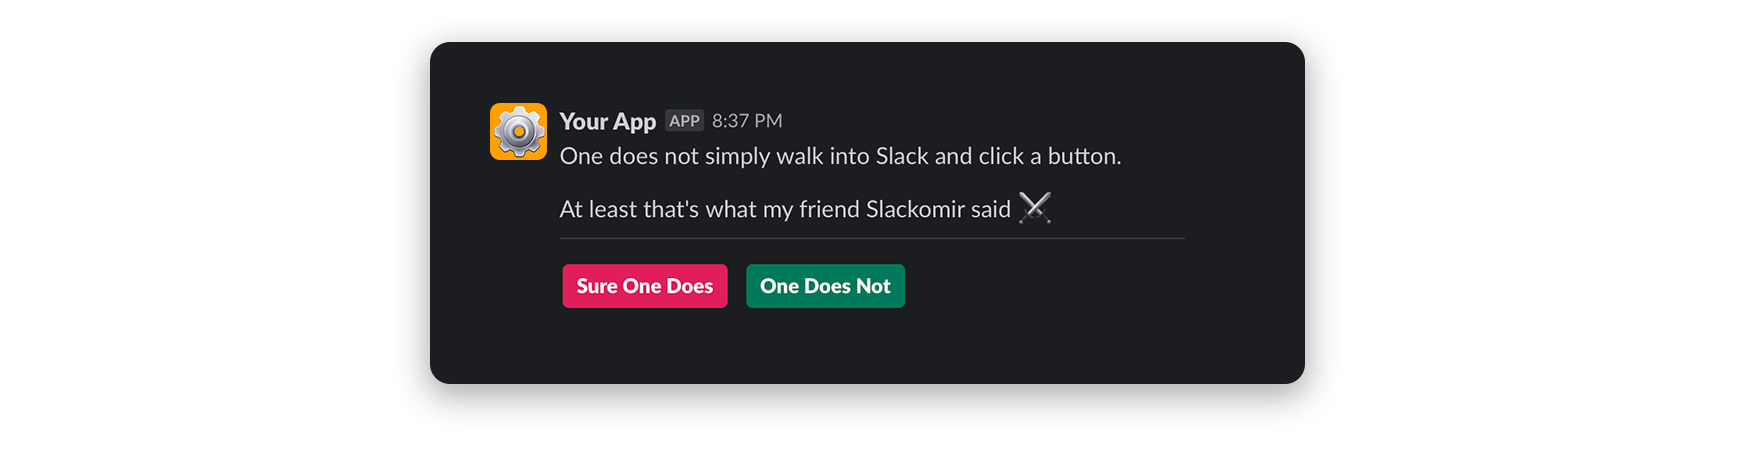
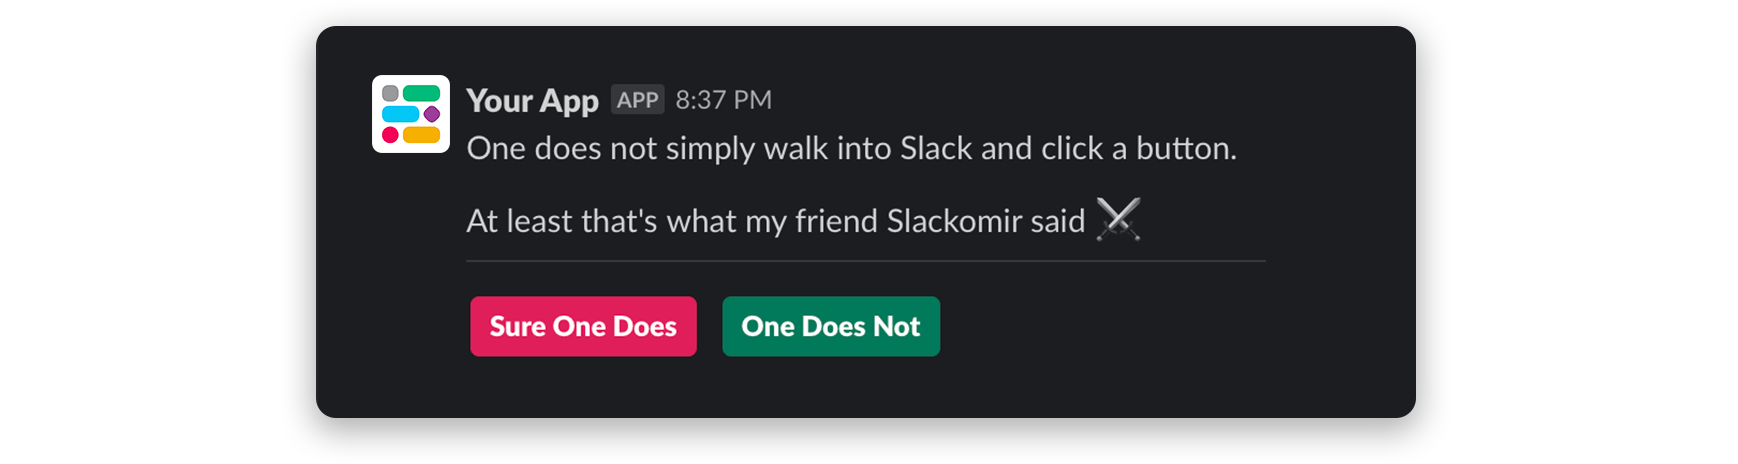
:books: Beautify README
– Add project logo.
– Beautify README.md
– Update images to reflect new logo.

Changed region(s): [[0.1554, 0.0311, 0.8389, 0.9644]]

diff --git a/README.md b/README.md
@@ -1,16 +1,40 @@
+<p align="center">
+    <img src="https://raw.githubusercontent.com/raycharius/slack-block-builder/master/resources/images/main/logo-horizontal.png" alt="Logo" width="600px">
+</p>
 
-:notebook: **Note:** Thorough, in-depth docs are in the process and will be available by **mid-June**.
+<p align="center">
+    <h3 align="center">Maintainable code for Slack interactive messages, modals, and home tabs.</h3>
+</p>
 
-# Block Builder
+<p align="center">
+    Lightweight, zero-dependency JavasScript library for <strong>Slack Block Kit UI</strong>.
+    <br />
+    <br />
+    <a href="#mag--real-world-examples"><strong>View Real-World Examples »</strong></a>
+    <br />
+    <br />
+    <a href="#space_invader--usage">Quick Start Guide</a>
+    ·
+    <a href="https://github.com/raycharius/slack-block-builder/issues">Request Feature</a>
+    ·
+    <a href="https://github.com/raycharius/slack-block-builder/issues">Report Bug</a>
+  </p>
+</p>
 
+![An example of using Block Builder](resources/images/main/hero-image.png)
+
+***
+
+[![npm](https://img.shields.io/npm/v/slack-block-builder?color=bright-green)](https://www.npmjs.com/package/slack-block-builder)
+![NPM](https://img.shields.io/npm/l/slack-block-builder?color=bright-green)
 [![codecov](https://codecov.io/gh/raycharius/slack-block-builder/branch/master/graph/badge.svg)](https://codecov.io/gh/raycharius/slack-block-builder)
 [![Maintainability](https://api.codeclimate.com/v1/badges/17a96b146284b1b82b9e/maintainability)](https://codeclimate.com/github/raycharius/slack-block-builder/maintainability)
 
-**Block Builder** is a lightweight, dependency-free JavaScript library for creating interactive messages, modals, and home tabs for Slack, with a builder syntax inspired by [SwiftUI](https://developer.apple.com/xcode/swiftui/).
+**Block Builder** helps you keep your Slack app code for UI maintainable, testable, and reusable. It has a simple builder syntax inspired by [SwiftUI](https://developer.apple.com/documentation/swiftui) and lets you code the _you_ want to code.
 
-![An example of using Block Builder](resources/images/main/hero.png)
 
-## :zap:  Features
+
+## :zap: &nbsp; Features
 
 * Simple [SwiftUI](https://developer.apple.com/xcode/swiftui/)-inspired syntax.
 * Builder syntax for better visual code structure.
@@ -21,7 +45,7 @@
 * A `printPreviewURL()` method that outputs to the console a link to preview your UI on Slack's [Block Kit Builder website](https://app.slack.com/block-kit-builder).
 * Small size, with zero dependencies.
 
-#### :hammer:  Coming Soon
+## :rocket: &nbsp; Coming Soon
 
 * In-depth doc site.
 * TypeScript type definitions.
@@ -30,7 +54,7 @@
 * Guide for [Slack](https://slack.com) apps with tips, tricks, and best practices.
 
 
-## :gift:  Benefits
+## :gift: &nbsp; Benefits
 
 * Write three times less code.
 * Build more sophistocated, elegant flows.
@@ -39,7 +63,7 @@
 * Code the way you want to code – [not forced into any single paradigm](#advanced-use-cases).
 * Easily integrate localizations into your app.
 
-## :floppy_disk:  Installation 
+## :floppy_disk: &nbsp; Installation 
 
 #### Using NPM: 
 
@@ -53,7 +77,7 @@ npm install --save slack-block-builder
 yarn add slack-block-builder
 ```
 
-## :space_invader:  Usage
+## :space_invader: &nbsp; Usage
 
 * [**Importing**](#importing)
 * [**Exposed Objects**](#exposed-objects)
@@ -471,7 +495,7 @@ Note that only one method can be called on the object, and needs to be called af
 
 There are multiple ways to handle conditionals with **Block Builder**. This is where **Block Builder** provides the most flexibility, since the builder methods, when receiving an argument that is `undefined`, simply do not set the property. 
 
-While you can definitely use traditional `if` statements, you can also pass in potentially undefined values, inline ternary expressions, the `&&` operator, or even self-invoking functions. Below there is a [real-world example](#conditionals-real-world-example), but let's first take a look at the basics:
+While you can definitely use traditional `if` statements, you can also pass in potentially undefined values, inline ternary expressions, the `&&` operator, or even self-invoking functions. Below there is a [real-world example](#mag--real-world-examples), but let's first take a look at the basics:
 
 ```javascript
 import { Modal, Blocks, Elements, Bits } from 'slack-block-builder';
@@ -549,7 +573,9 @@ const someModal = ({ someData }) => {
 };
 ```
 
-#### Conditionals Real-World Example
+## :mag: &nbsp; Real-World Examples
+
+### Conditionals
 
 Let's say you have an app that manages team rosters, through a [Slack](https://slack.com) modal. 
 
@@ -611,19 +637,20 @@ There are multiple ways to add logic with this in mind. If you're feeling especi
 
 Originally, the idea of accepting a value of `undefined` was to help assist with simple things, such as passing in a value to the `initialOption()` method for select menus, but it opens the door for a lot manipulation. It's up to you to decide where you draw the line with this type of inline logic.
 
-## Other Useful Slack-Related Projects
+## :link: &nbsp; Other Useful Slack-Related Projects
 
 [Bolt for Javascript](https://github.com/SlackAPI/bolt) – A simple framework for building [Slack](https://slack.com) apps, developed by [Slack](https://slack.com) themselves.
 
 [Node Slack SDK](https://github.com/slackapi/node-slack-sdk) – A great and powerful SDK for building [Slack](https://slack.com) Apps from the ground up.
 
-## Author
+## :fire: &nbsp; Acknowledgements
+ 
+<img src="https://github.com/bravecow.png" alt="@bravecow" width="24" height="24" valign="bottom" /> Taras Neporozhniy ([@bravecow](https://github.com/bravecow)) - For all of the advice!
+
+<img src="https://cdn.dribbble.com/users/683635/avatars/normal/ee2c7c826bfe244b573d145376fe0b5a.png?1510328842" alt="@ft502" width="24" height="24" valign="bottom" /> Alexey Chernyshov ([@ft502](https://dribbble.com/ft502) on Dribbble) - For such a beautiful logo!
+
+<img src="https://github.com/slackhq.png" alt="@slackhq" width="24" height="24" valign="bottom" /> SlackHQ ([@slackhq](https://github.com/slackhq)) - For such a wonderful product and API!
+
+## :black_nib: &nbsp; Author
 
 <img src="https://github.com/raycharius.png" alt="@raycharius" width="24" height="24" valign="bottom" /> Ray East ([@raycharius](https://github.com/raycharius)) - Huge Fan of Slack and Block Builder Maintainer
-
-## License
-
-[MIT License](LICENSE)
-
-
-

diff --git a/CHANGELOG.md b/CHANGELOG.md
@@ -1,5 +1,11 @@
 # Change Log
 
+## v0.1.3 - 2020-06-13
+
+* Add project logo (kudos to Alexey Chernyshov).
+* Beautify README.md for project.
+* Update images to reflect new logo.
+
 ## v0.1.2 - 2020-06-12
 
 * Add `inChannel()` method to `Message` object.
